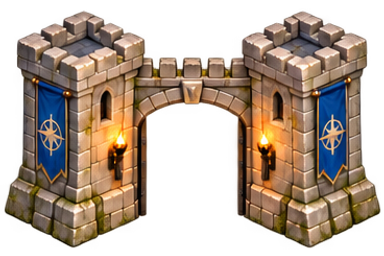
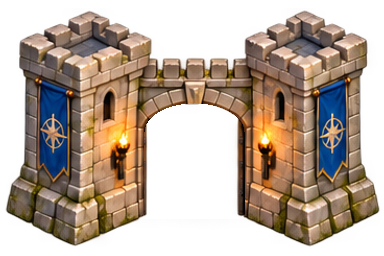
Lock gateway masonry pixels while preserving the approved door poses

Changed region(s): [[0.0, 0.0312, 1.0, 0.9688]]

diff --git a/docs/full-gateway/stabilization.md b/docs/full-gateway/stabilization.md
@@ -1,0 +1,9 @@
+## Stable masonry, preserved door animation
+
+The generated frames still contained small changes to stone geometry and banners after registration. The packing step now locks every pixel outside the arched doorway to frame 0. It preserves the original generated doorway poses within the aperture. The output remains one complete 16-frame gateway sprite sheet with the existing timing, pivot, depth and collisions.
+
+Regression: `node scripts/verify-gateway-stability.mjs`. The old atlas failed with over one million changed stone pixels. The stabilized atlas passes with zero visible stone pixel changes across all 16 frames, while retaining 16 distinct door poses. Transparent RGB values are ignored when alpha is zero, since the WebP encoder may change invisible colour data.
+
+The browser animation/performance check no longer reads tower pixels from the GPU every animation frame. Static content is checked by the asset regression; runtime performance is measured without that readback overhead. The 390 × 844 / 4× CPU local check passed with p95 33.4 ms, maximum 66.6 ms, no world/light/shadow rebuilds, and successful mid-animation reversal. Depth/pivot checks and the production build passed.
+
+Deploy with `node scripts/publish-gateway-stability.mjs`: it patches only the four gateway assets and the stability report, preserving other live app, knight and HUD changes.
